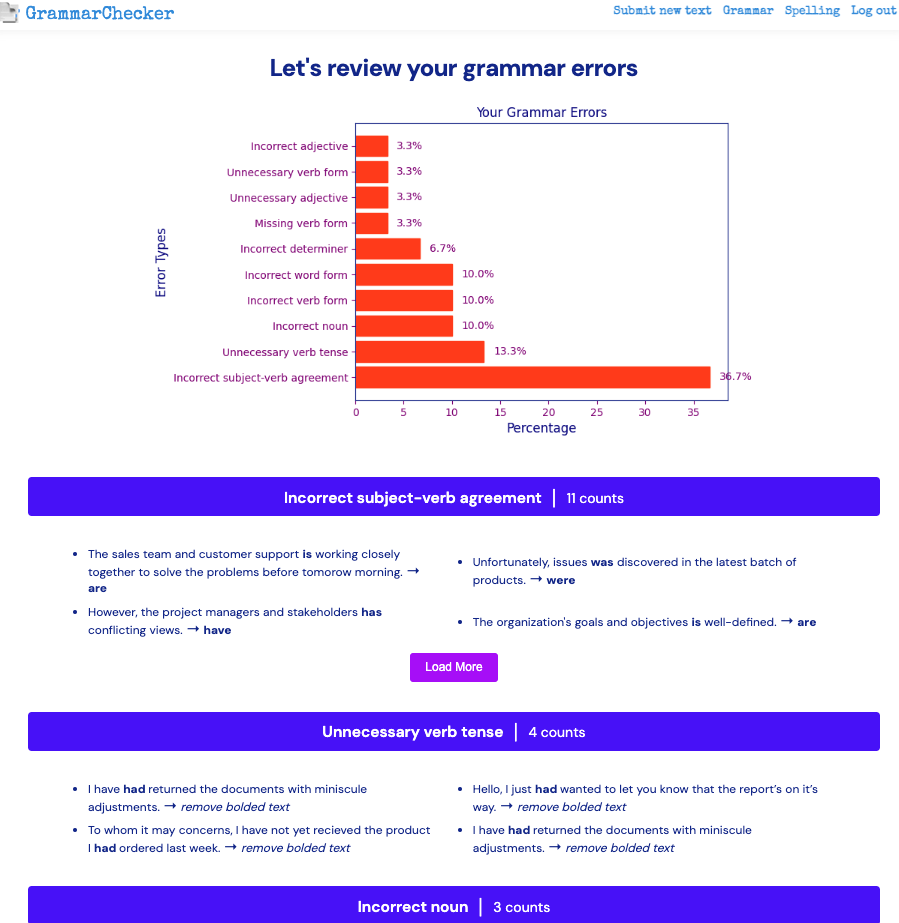
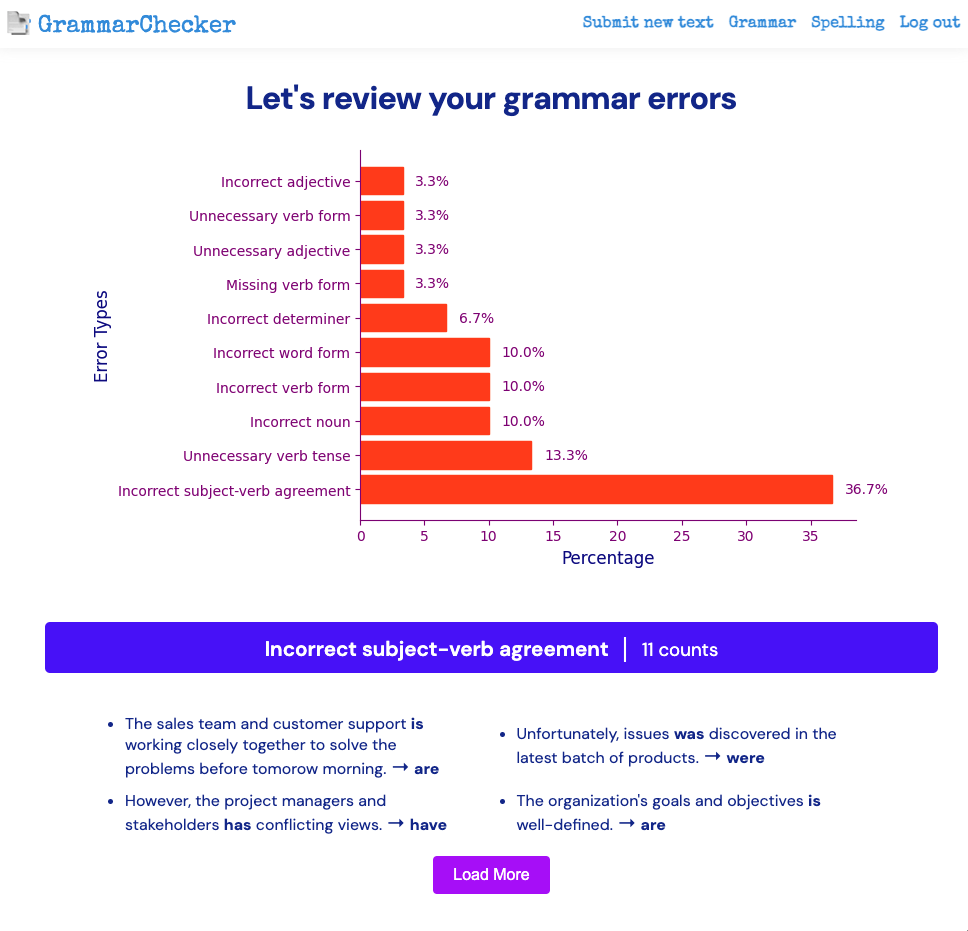
update README file

diff --git a/test_error_views.py b/test_error_views.py
@@ -3,7 +3,7 @@ from unittest import TestCase
 
 from models import db, User, Text, Grammar_Error, Spelling_Error
 
-os.environ['DATABASE_URL'] = "postgresql:///capstone1-test"
+os.environ['DATABASE_URL'] = "postgresql:///grammar_checker_test"
 from app import app, CURR_USER_KEY
 
 app.config['WTF_CSRF_ENABLED'] = False

diff --git a/test_spelling_error_model.py b/test_spelling_error_model.py
@@ -3,7 +3,7 @@ from unittest import TestCase
 from flask import Flask
 from models import db, Text, User, Spelling_Error
 
-os.environ['DATABASE_URL'] = "postgresql:///capstone1-test"
+os.environ['DATABASE_URL'] = "postgresql:///grammar_checker_test"
 
 app = Flask(__name__)
 app.config['TESTING'] = True

diff --git a/test_grammar_error_model.py b/test_grammar_error_model.py
@@ -3,7 +3,7 @@ from unittest import TestCase
 from flask import Flask
 from models import db, Text, User, Grammar_Error
 
-os.environ['DATABASE_URL'] = "postgresql:///capstone1-test"
+os.environ['DATABASE_URL'] = "postgresql:///grammar_checker_test"
 
 app = Flask(__name__)
 app.config['TESTING'] = True

diff --git a/test_text_model.py b/test_text_model.py
@@ -4,7 +4,7 @@ from datetime import datetime, timedelta
 from flask import Flask
 from models import db, Text, User
 
-os.environ['DATABASE_URL'] = "postgresql:///capstone1-test"
+os.environ['DATABASE_URL'] = "postgresql:///grammar_checker_test"
 
 app = Flask(__name__)
 app.config['TESTING'] = True

diff --git a/test_user_views.py b/test_user_views.py
@@ -3,7 +3,7 @@ from unittest import TestCase
 
 from models import db, User
 
-os.environ['DATABASE_URL'] = "postgresql:///capstone1-test"
+os.environ['DATABASE_URL'] = "postgresql:///grammar_checker_test"
 from app import app, CURR_USER_KEY
 
 app.config['WTF_CSRF_ENABLED'] = False

diff --git a/test_user_model.py b/test_user_model.py
@@ -2,7 +2,7 @@ import os
 from unittest import TestCase
 from sqlalchemy import exc
 
-os.environ['DATABASE_URL'] = "postgresql:///capstone1-test"
+os.environ['DATABASE_URL'] = "postgresql:///grammar_checker_test"
 from app import app
 
 app.config['TESTING'] = True

diff --git a/README.md b/README.md
@@ -1,6 +1,6 @@
 # GrammarChecker
 
-Deployed at https://capstone1-z7w1.onrender.com
+Deployed at https://grammarchecker-6rj1.onrender.com
 
 ## Summary
 
@@ -20,14 +20,16 @@ After signing up, the site’s main functionality can be accessed through the na
 
 ## Example Screenshots
 ### Review Grammar Errors
-![Grammar Errors Screenshot](https://github.com/Lindsey-Ipson/Capstone1/blob/main/README%20Files/Grammar_Errors_Screenshot.png)
+![Grammar Errors Screenshot](https://github.com/Lindsey-Ipson/GrammarChecker/blob/main/README%20Files/Grammar_Errors_Screenshot.png)
+### Review Grammar Errors Continued
+![Grammar Errors Continued Screenshot](https://github.com/Lindsey-Ipson/GrammarChecker/blob/main/README%20Files/Grammar_Errors_Continued_Screenshot.png)
 ### Review Spelling Errors
-![Spelling Errors Screenshot](https://github.com/Lindsey-Ipson/Capstone1/blob/main/README%20Files/Spelling_Errors_Screenshot.png)
+![Spelling Errors Screenshot](https://github.com/Lindsey-Ipson/GrammarChecker/blob/main/README%20Files/Spelling_Errors_Screenshot.png)
 ### Review Text Submission
-![Review Text Submission Screenshot](https://github.com/Lindsey-Ipson/Capstone1/blob/main/README%20Files/Text_Review_Screenshot.png)
+![Review Text Submission Screenshot](https://github.com/Lindsey-Ipson/GrammarChecker/blob/main/README%20Files/Text_Review_Screenshot.png)
 
 ## Schema
-![Database Schema](https://github.com/Lindsey-Ipson/Capstone1/blob/main/README%20Files/Database_Schema_Diagram.png)
+![Database Schema](https://github.com/Lindsey-Ipson/GrammarChecker/blob/main/README%20Files/Database_Schema_Diagram.png)
 
 ## Technology Used:
 
